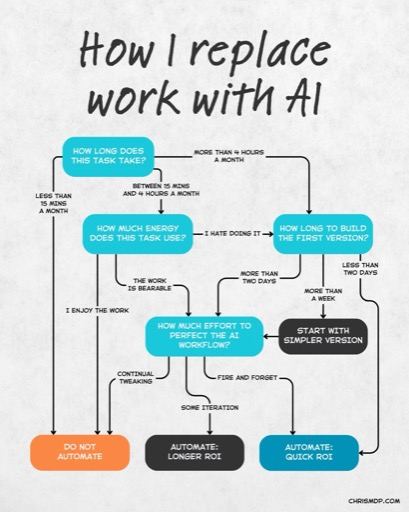
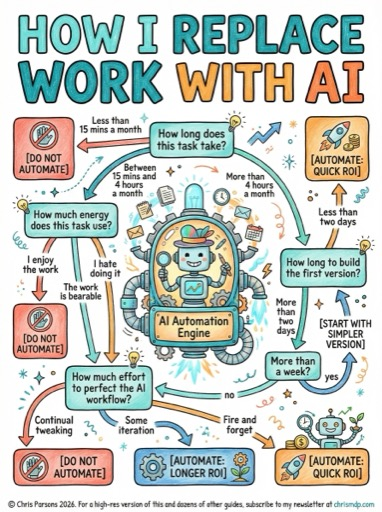
update post

diff --git a/_posts/2025-06-03-unlocking-real-leverage-with-ai-delegation.md b/_posts/2025-06-03-unlocking-real-leverage-with-ai-delegation.md
@@ -1,12 +1,13 @@
 ---
 layout: post
 title: "Unlocking Real Leverage with AI Delegation"
-date: 2025-06-03 09:00:00 +0000
+date: 2026-01-27 09:00:00 +0000
 categories:
 - ai
 - engineering
 - automation
 image: /assets/img/replace-work-ai-infographic.jpg
+image_portrait: true
 infographic: /assets/img/replace-work-ai-infographic.jpg
 ---
 
@@ -20,62 +21,102 @@ This is how I do it.
 
 ## Why AI Delegation Feels Awkward
 
+I used to just code. Then I managed teams. Now I find myself needing management skills again, even when I am not managing people.
+
 The first time I tried delegating to an AI agent, it felt exactly like onboarding a new team member. I was not sure what to hand over or how to check the work. The results were messy and there was a lot of copy/pasting. It took a lot longer than doing it myself.
+
+AI agents are not people to manage and they are not programs to command. They are something new entirely, and that requires a new mental model. I wrote previously about [how engineering managers are often well-suited for AI work](/webinar-how-not-to-screw-up-your-ai-rollout/) because they already think in terms of delegation and non-determinism. But even they have to unlearn old habits.
 
 Delegation is always awkward at the start, whether you are working with people or machines. The learning curve is part of the process, and the discomfort is a sign you are moving forward.
 
-Five principles for getting started:
+## Chat vs Agents
 
-### Start Small
-Begin with a simple, concrete task. Even if it feels trivial, this gives you a clear baseline. The first attempt will be clumsy - that is normal. Each iteration helps you refine your instructions and identify potential issues.
+Before going further, a distinction matters here. Chat interfaces like ChatGPT or Claude.ai are for quick questions. Agents have agency: they can plan, execute, and adapt.
 
-### Expect to Iterate
-The journey to effective AI delegation is not linear. Each round improves your ability to specify requirements and spot problems. Do not expect perfection on the first try. Instead, focus on learning from each attempt.
+Agents work with multi-file context, multi-step reasoning, and persistent context across sessions. Chat just responds to what you type. The shift is from "AI assistant" to "AI thought partner." For delegation to work, [you need the repository approach, not chatbots](/writing-and-thinking-with-ai-why-repositories-beat-chatbots/).
 
-### Use Human Delegation Frameworks
-Apply the same frameworks you use for human delegation. The VSEM framework helps separate vision, strategy, and execution. A GTD approach breaks work into manageable chunks. I wrote more about how to apply these delegation frameworks in AI coding in [this post](/livestream-23rd-may-2025-complex-change/).
+Tools like Claude Code and Cursor are platforms, not just interfaces. Through MCP (Model Context Protocol) and tool chaining, you can build an extensible delegation infrastructure. Your CLAUDE.md file becomes a training document for your AI staff. You are not just delegating individual tasks anymore. You are building a system that compounds.
 
-### Treat it Like Hiring Contractors
-Approach AI delegation like hiring contractors: experiment quickly and move on if something is not working. Do not get stuck trying to make a suboptimal approach work. The goal is to find what works for you.
+I have written more about [how to use Claude Code skills](/how-to-use-claude-code-skills/) to encode your work patterns into reusable prompts. This turns one-off delegation into repeatable systems.
 
-### Embrace the Mess
+## When and How to Delegate
 
-The path to effective AI delegation is not smooth. It is fiddly and sometimes frustrating. But every experiment brings you closer to real leverage. The mess is part of the process - embrace it and keep moving forward.
+Not every task should go to AI. [AI reaches consistency quickly through prompting, but competence slowly through model improvements](/ai-is-consistently-mediocre/). Humans reach competence quickly but consistency slowly.
+
+Deploy AI where uniform mediocrity beats variable excellence: expense categorisation, first-pass code reviews, interview scoring against rubrics. These are tasks where consistency matters more than occasional brilliance, and where human variability causes problems. This reframes the "80% as well as you" concern. It is a strategic advantage, not a compromise.
+
+Once you decide to delegate, the next question is how hands-on to be. Shreyas Doshi's radical delegation framework offers a useful lens: consider both the stakes of the outcome and the capability of the person (or in our case, the AI) handling it.[^1]
+
+Two questions determine your delegation level. How much does outcome quality matter? A draft email to a colleague has different stakes than a client proposal. And how capable is AI at this task? Some tasks AI handles well today, others require significant human judgment. This changes as models improve, so revisit your assumptions regularly.
+
+These two factors create a spectrum of involvement:
+
+**Fire and forget.** Low stakes, AI is capable. You set it up once and let it run. Email triage rules, calendar scheduling, routine data formatting. Check occasionally to make sure nothing has drifted.
+
+**Spot check.** Medium stakes, AI is mostly capable. You review outputs periodically but do not approve each one. Internal summaries, first-draft documentation, research compilation.
+
+**Approve before action.** Higher stakes or lower AI capability. AI drafts, you review and approve before anything goes out. Client communications, code merges, published content.
+
+**Collaborative.** High stakes, complex judgment required. You work together in real-time, AI assists your thinking rather than replacing it. Strategy documents, architectural decisions, sensitive communications.
+
+**Human-led with AI boost.** Critical outcomes, novel situations, high judgment. You lead the work entirely, AI helps with research, drafting, or analysis. Contract negotiations, hiring decisions, crisis response.
+
+One factor people forget: [AI can be phished](/webinar-stop-ai-stealing-from-you/#the-lethal-trifecta). Prompt injection attacks can manipulate agents into leaking data or taking unintended actions. The more autonomous the delegation level, the more you need guardrails and monitoring in place.
+
+Where you draw the line depends on task-relevant maturity. As AI improves at a task (or as you build better prompts and guardrails), you can move down the spectrum. What starts as "approve before action" might become "spot check" after a few months of reliable performance.
 
 ## How to Delegate a Workflow
 
-### Start with a Fixed Task
+The flowchart above walks through my decision process for whether to automate a task at all. Once you have decided to delegate, here is how to actually do it.
 
-Begin with something entirely fixed, without AI, to get used to the tools you have available.
+### Pick Something That Fits
 
-For example, I use n8n to automate a Kit tag addition that creates a Google Calendar entry for [my webinars](/webinar). It was fiddly to create, but it helped me learn how the workflow tool worked.
+Find a task that passes the flowchart test: takes meaningful time, drains your energy or you hate doing it, and would not require endless tweaking to get right. Start there.
 
-If you are more technical, try using n8n. If you are not, Zapier is a great place to start. There are plenty more [tools out there](/ai-tools-list/) if you need more options.
+The bitter lesson applies here: try the simplest approach first. What once required elaborate automation pipelines in n8n or Zapier now often works with a simple prompt and a CLAUDE.md file that knows your preferences. Ask Claude Code to do it directly before reaching for workflow tools.
 
-### Look for Decision Points
+### Find the Decision Point
 
-Once you are comfortable with the tools, look for decision points in your workflow where you would not normally give the job to a computer. Try and find a really simple decision that you make all the time.
+Look for the moment in the task where judgment happens. Where you would not normally give the job to a computer. Try to find a really simple decision that you make all the time.
 
-If you are not sure what an AI might be able to do, ask an AI agent to brainstorm where an agent could help within your workflow. This kind of meta-thinking about strategy is a really important skill to develop in the age of AI.
+If you are not sure what an AI might be able to do, ask an AI agent to brainstorm where an agent could help within your workflow. This kind of meta-thinking about strategy is a really important skill to develop.
 
-### Automate One Thing
+### Automate and Iterate
 
-Pick a small decision to automate. Set up the automation in your chosen tool. Add an AI agent to handle the decision point. Test, iterate, and refine.
+Pick that decision point and automate it. Test, iterate, and refine.
 
-Each experiment will teach you something new about the tool and what AI can do, slowly increasing your leverage over time.
+Each experiment will teach you something new about what AI can do, slowly increasing your leverage over time. If something does not work, revisit when a new model comes out. The tech is moving so fast that what did not work three months ago might just work now.
 
-If something doesn't work, revisit when a new model comes out. Those who will be at the forefront of this will be the ones who are willing to go back and push the boundaries again, and experiment and learn. The tech is moving so fast that what didn't work three months ago might just work now, unlocking big productivity gains.
+### Real Examples
 
-### An Example
+I started with email triage. Imagine you receive inbound emails asking for advice. You probably already automate parts of this process using rules, marking particular emails as important based on who they are from. Try first to move this process to a workflow tool.
 
-An example. Imagine you receive inbound emails asking for advice. You probably already automate parts of this process, using rules, by marking particular emails as important based on who they are from. Try first to move this process to a workflow tool. (Note: this could get expensive if you get a lot of email, so perhaps do the first pass of filtering via your existing email rules, such as emails not directly addressed to you.)
+Once that is done, how do you process the rest? Normally, you might read each one and decide: should you reply personally, refer the person to a resource, or have AI draft a first response? Set up a workflow where AI reviews the email and drafts a reply for you to approve, or marks the email as important for your attention. You can start by automating the triage step, then gradually hand over more of the process as you gain confidence.
 
-Once that's done, how do you process the rest? Normally, you might read each one and decide: should you reply personally, refer the person to a resource, or have AI draft a first response?
+But that was just the beginning. I now run workflows for meeting scheduling from Slack, natural language analytics queries against BigQuery, Slack summarisation to docs, daily check-outs that pull from Linear and GitHub, and pre-meeting briefings from CRM data. Each one started as a single decision point, and each one now runs without my involvement.
 
-This is a perfect decision point to automate. Set up a workflow where AI reviews the email and drafts a reply for you to approve, or marks the email as important for your attention. You can start by automating the triage step, then gradually hand over more of the process as you gain confidence.
+## Surviving the 80% Trap
 
-## The Payoff and Next Steps
+Most people hit 70-80% quality on their first delegation attempt, realise that is not good enough, and have to reverse-engineer everything to start over. This is the process, not failure. The 80% trap catches almost everyone. Knowing it is coming makes it easier to push through.
 
-Delegating is always awkward. It could be the job is done only 80% as well as if you did it. But if we learn to delegate and let go of our perfectionism, real leverage opens us for us. The beauty of the AI age is that this leverage is beginning to be available to all, not just high performing leaders. We need to learn the skills they use to delegate to realise the same benefits.
+The journey to effective AI delegation is not linear. Each round improves your ability to specify requirements and spot problems. Big Design Up Front does not work here. You cannot write a detailed spec and parallelise the work like a traditional software project. Instead, start from use cases and pull through functionality. Let the agent reveal what is needed through iteration.
 
-The awkwardness is a sign you are learning and making progress. Every experiment brings you closer to the kind of leverage that transforms your workflow. You do not need a perfect system; you just need to start. Share your experiences, keep experimenting, and watch as the payoff grows.
+Approach AI delegation like hiring contractors: experiment quickly and move on if something is not working. Do not get stuck trying to make a suboptimal approach work. The goal is to find what works for you.
+
+The path to effective AI delegation is not smooth. It is fiddly and sometimes frustrating. But every experiment brings you closer to real leverage. The mess is part of the process.
+
+## Build Infrastructure, Not Tasks
+
+The contractor metaphor has limits. You are building a delegation system, not just hiring a contractor.
+
+Your CLAUDE.md file and your [skills](/how-to-use-claude-code-skills/) are your operations manual for the AI team. They encode how you work, what you expect, and how decisions should be made. Every time you refine them, you are training your infrastructure to work better without you. Share them with others. Unlike tribal knowledge locked in someone's head, these are portable, forkable, improvable. I have written about [how simple orchestration patterns beat clever engineering](/your-agent-orchestrator-is-too-clever/). A bash loop calling an agent repeatedly outperforms elaborate multi-agent architectures.
+
+One pattern I am exploring: using task managers like Reclaim as a queue, with Claude Code as the executor. When you start a Reclaim task, the agent spins up with context. You are not delegating individual tasks anymore. You are delegating your task system.
+
+## The Payoff
+
+Delegating is always awkward. The job might be done only 80% as well as if you did it. But 80% done consistently, at scale, beats 100% done occasionally by a burned-out human. If we learn to delegate and let go of our perfectionism, real leverage opens up for us. The beauty of the AI age is that this leverage is beginning to be available to all, not just high-performing leaders. We need to learn the skills they use to realise the same benefits.
+
+The awkwardness is a sign you are learning and making progress. Every experiment brings you closer to the kind of leverage that transforms your workflow. You do not need a perfect system. You just need to start.
+
+[^1]: Shreyas Doshi's radical delegation framework considers both impact to the business and the person's confidence level to determine how hands-on a leader should be. The higher the stakes and lower the confidence, the more closely you need to be involved. See his [original thread](https://x.com/shreyas/status/1401598910792011776){:target="_blank"} for more.
